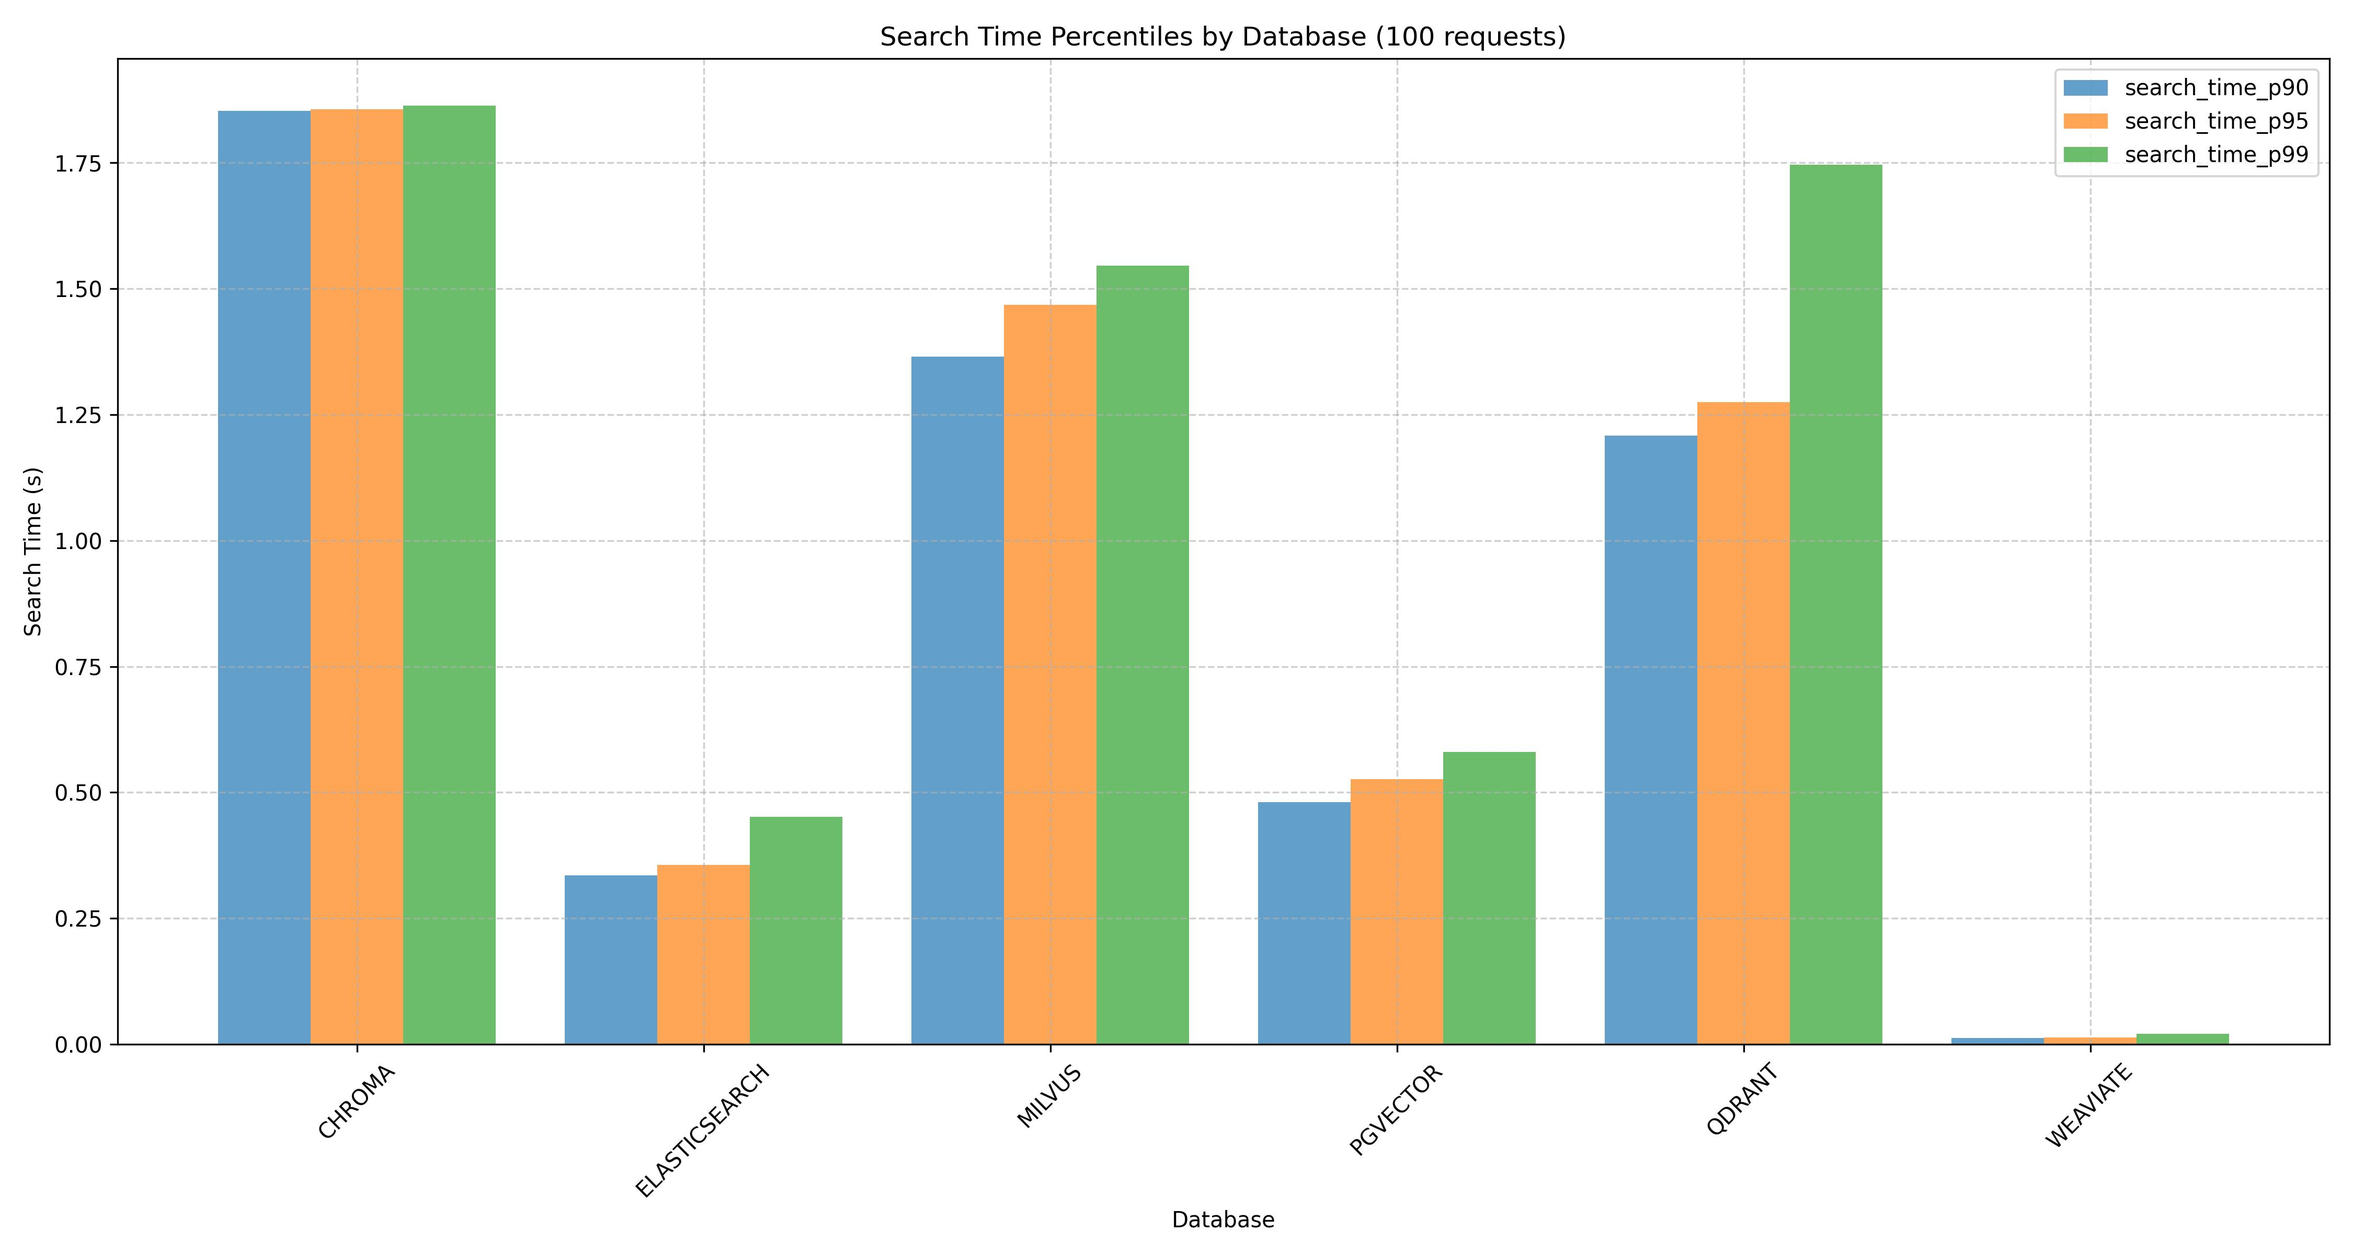
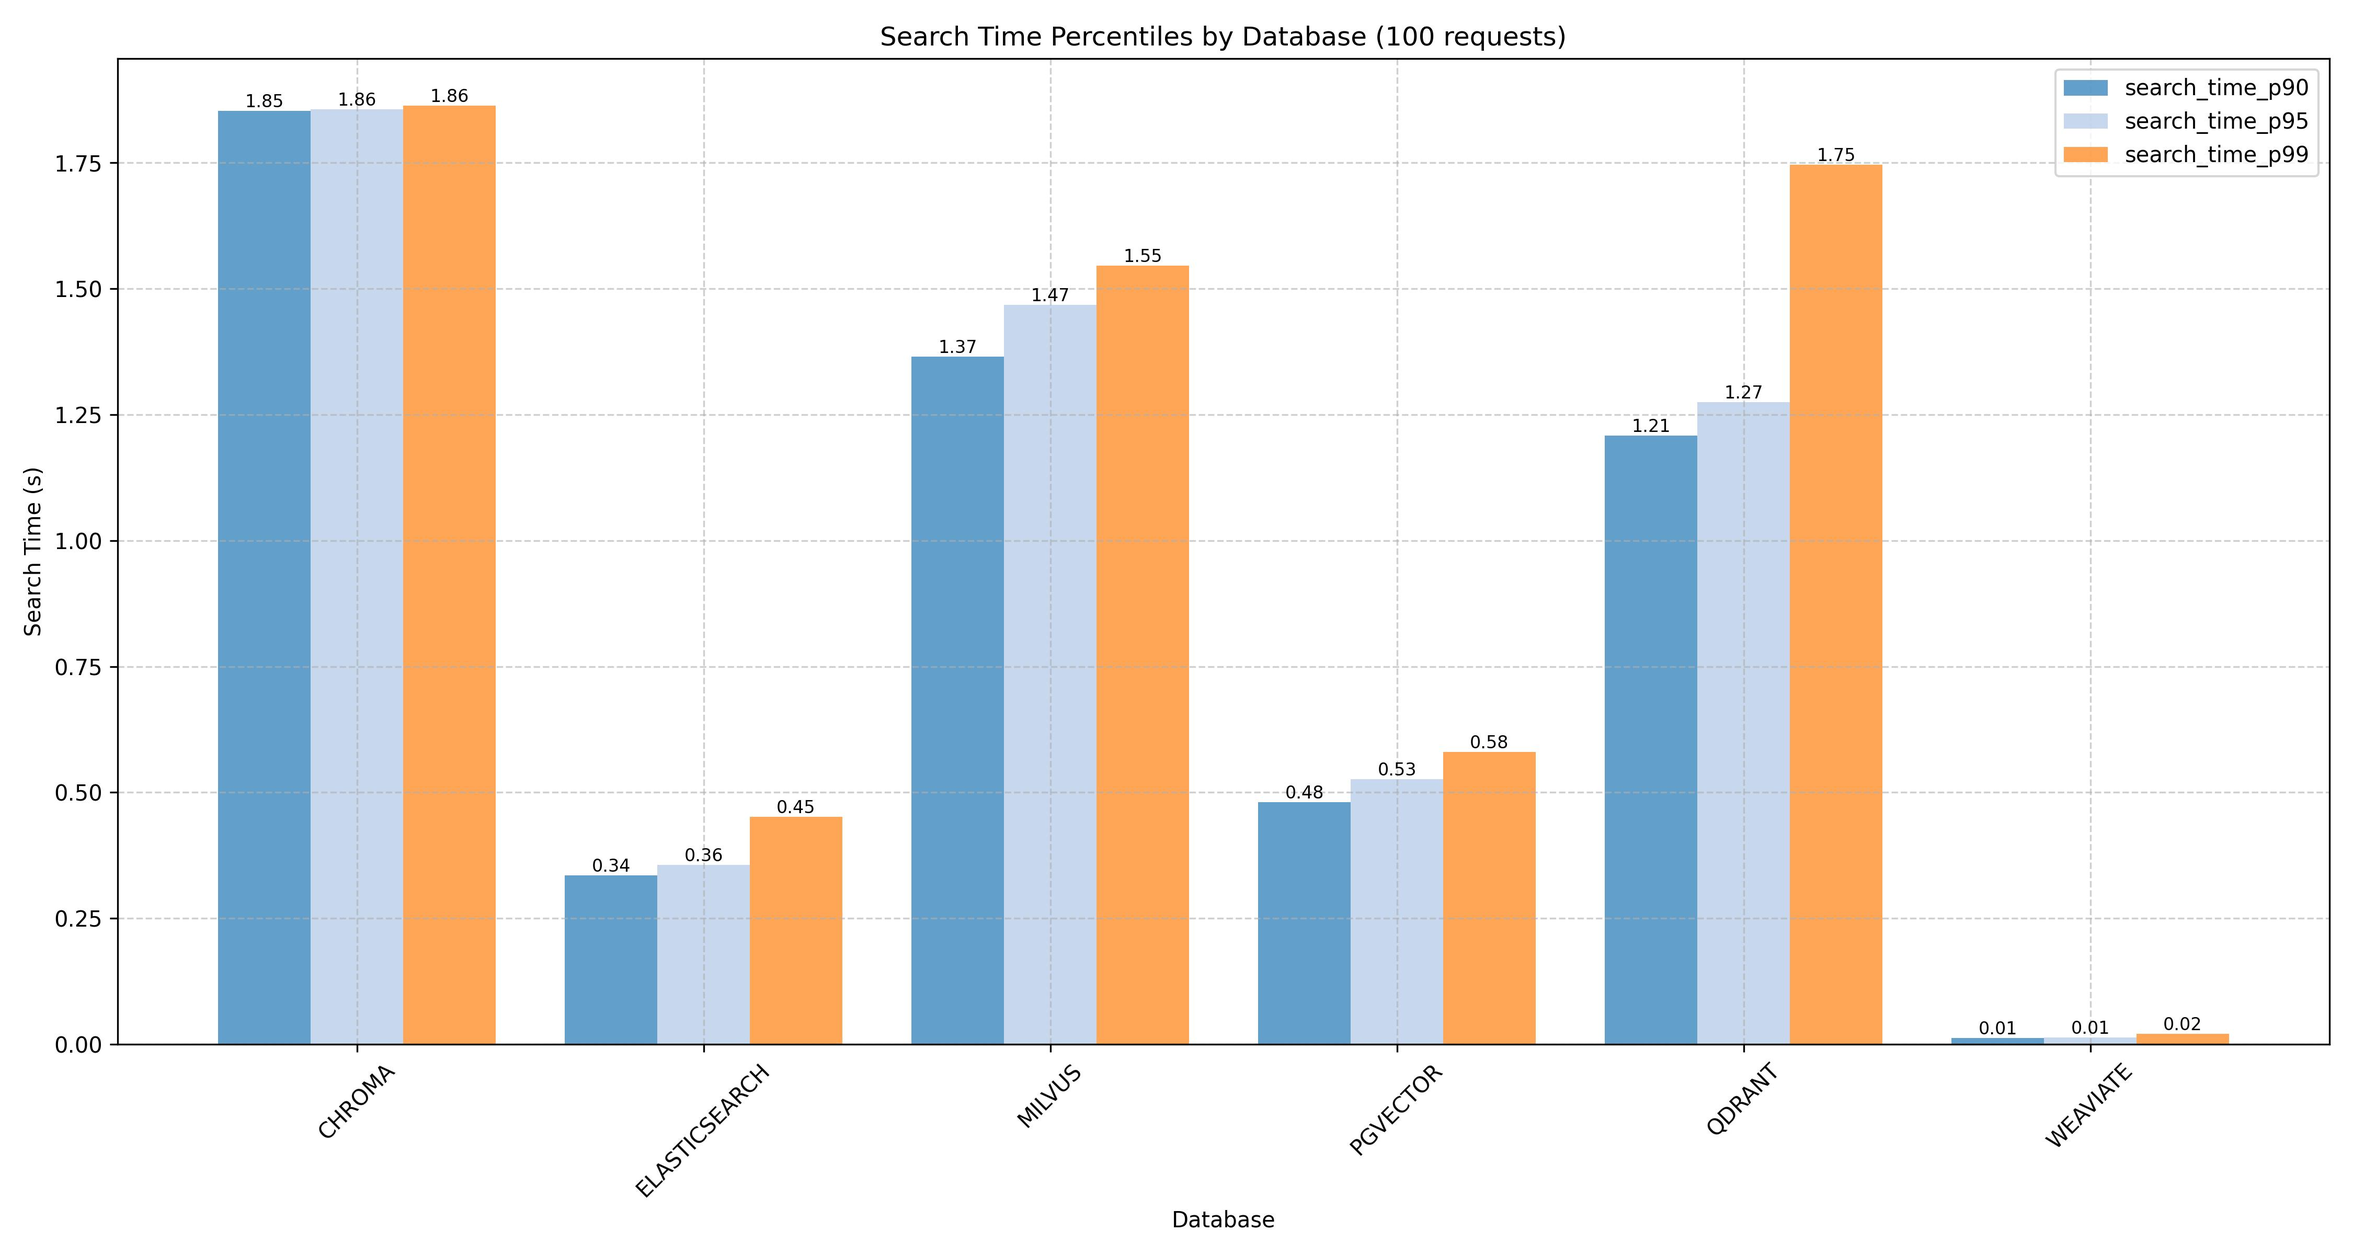
feat: modify plots

diff --git a/data_visualiser/main.py b/data_visualiser/main.py
@@ -7,10 +7,16 @@ import seaborn as sns
 RESULTS_FOLDER = "results"
 PLOTS_FOLDER = "plots"
 
+
 def retrieve_benchmarker_files(type: str):
-    file_paths = [os.path.join(RESULTS_FOLDER, f) for f in os.listdir(RESULTS_FOLDER) if type in f and f.endswith(".csv")]
+    file_paths = [
+        os.path.join(RESULTS_FOLDER, f)
+        for f in os.listdir(RESULTS_FOLDER)
+        if type in f and f.endswith(".csv")
+    ]
     file_paths.sort()
     return file_paths
+
 
 def plot_metrics_scatterplot(
     search_file_paths,
@@ -20,7 +26,8 @@ def plot_metrics_scatterplot(
     file_name=None,
 ):
     """
-    Create a single scatterplot with a specified metric for all databases, using different colors for each database.
+    Create a grid of scatterplots with a specified metric for all databases, using different colors for each database.
+    The grid will have 3 rows and 2 columns, and the Y-axis will be the same for all plots.
 
     Parameters:
     - search_file_paths: List of paths to CSV files.
@@ -30,7 +37,8 @@ def plot_metrics_scatterplot(
     - file_name: Custom file name for saving the plot (optional). If not provided, a default name will be generated.
     """
 
-    fig, ax = plt.subplots(figsize=(12, 8))
+    fig, axes = plt.subplots(3, 2, figsize=(15, 15), sharey=True)
+    axes = axes.flatten()
 
     colors = sns.color_palette("husl", n_colors=len(search_file_paths))
 
@@ -39,11 +47,11 @@ def plot_metrics_scatterplot(
         df = pd.read_csv(file_path)
 
         df["iteration"] = pd.to_numeric(df["iteration"], errors="coerce")
-
         df_valid = df.dropna(subset=["iteration"])
 
         db_name = os.path.basename(file_path).split("_database_")[-1].split("_")[0]
 
+        ax = axes[i]
         sns.scatterplot(
             x=df_valid["iteration"],
             y=df_valid[metric],
@@ -53,23 +61,38 @@ def plot_metrics_scatterplot(
             ax=ax,
         )
 
-        ax.plot(df_valid["iteration"], df_valid[metric], color=colors[i], linewidth=2, alpha=0.8)
+        ax.plot(
+            df_valid["iteration"],
+            df_valid[metric],
+            color=colors[i],
+            linewidth=4,
+            alpha=0.8,
+        )
 
-    ax.set_xlabel("Iteration")
-    ax.set_ylabel(ylabel if ylabel else metric)
-    ax.set_title(title if title else f"{metric.capitalize()} Across Iterations for All Databases")
-    ax.legend(title="Database", bbox_to_anchor=(1.05, 1), loc="upper left")
-    ax.grid(True)
+        ax.set_xlabel("Iteration")
+        ax.set_ylabel(ylabel if ylabel else metric)
+        ax.set_title(f"{db_name} - {metric.capitalize()}")
+        ax.legend(title="Database", bbox_to_anchor=(1.05, 1), loc="upper left")
+        ax.grid(True)
+
+        ax.yaxis.set_visible(True)
+
+    fig.suptitle(
+        title
+        if title
+        else f"{metric.capitalize()} Across Iterations for All Databases",
+        fontsize=16,
+    )
 
     plt.tight_layout()
 
     if file_name is None:
-        file_name = f"{metric}_combined_scatterplot.jpg"
+        file_name = f"{metric}_combined_scatterplot_grid.jpg"
     plot_path = os.path.join(PLOTS_FOLDER, file_name)
 
     fig.savefig(plot_path, dpi=300)
 
-    logger.info(f"Saved combined scatter plot: {plot_path}")
+    logger.info(f"Saved combined scatter plot grid: {plot_path}")
 
 
 def plot_metrics_barplot(
@@ -104,7 +127,7 @@ def plot_metrics_barplot(
     for file_path in search_file_paths:
         logger.info(f"Processing {file_path}...")
         df = pd.read_csv(file_path)
-        
+
         df_first_file = pd.read_csv(search_file_paths[0])
 
         numeric_requests = pd.to_numeric(df_first_file["iteration"], errors="coerce")
@@ -115,7 +138,9 @@ def plot_metrics_barplot(
         db_names.append(db_name)
 
         for metric in metrics:
-            logger.info(f"full metric value {df.loc[df["iteration"] == metric, column_name].values[0]}")
+            logger.info(
+                f"full metric value {df.loc[df['iteration'] == metric, column_name].values[0]}"
+            )
             metric_value = df.loc[df["iteration"] == metric, column_name].values[0]
             metric_values[metric].append(metric_value)
 
@@ -123,10 +148,10 @@ def plot_metrics_barplot(
     width = 0.8 / len(metrics)
 
     if colors is None:
-        colors = plt.cm.tab10.colors[: len(metrics)]
+        colors = plt.cm.tab20.colors[: len(metrics)]
 
     for i, metric in enumerate(metrics):
-        ax.bar(
+        bars = ax.bar(
             [pos + i * width for pos in x],
             metric_values[metric],
             width,
@@ -134,6 +159,17 @@ def plot_metrics_barplot(
             color=colors[i],
             alpha=0.7,
         )
+
+        for bar in bars:
+            height = bar.get_height()
+            ax.text(
+                bar.get_x() + bar.get_width() / 2.0,
+                height,
+                f"{height:.2f}",
+                ha="center",
+                va="bottom",
+                fontsize=8,
+            )
 
     ax.set_xlabel("Database")
     ax.set_ylabel(ylabel)
@@ -164,164 +200,164 @@ if __name__ == "__main__":
 
     # Scatterplot for search times
     plot_metrics_scatterplot(
-        search_file_paths, 
-        metric="search_time", 
-        title="Search Time Across Requests", 
-        ylabel="Search Time (s)", 
-        file_name="search_time_combined_scatter_plot.jpg"
+        search_file_paths,
+        metric="search_time",
+        title="Search Time Across Requests",
+        ylabel="Search Time (s)",
+        file_name="search_time_combined_scatter_plot.jpg",
     )
 
     # Scatterplot for initialisation times
     plot_metrics_scatterplot(
-        store_delete_file_paths, 
-        metric="initialisation_time", 
-        title="Initialisation Time Across Requests", 
-        ylabel="Initialisation Time (s)", 
-        file_name="initialisation_time_combined_scatter_plot.jpg"
+        store_delete_file_paths,
+        metric="initialisation_time",
+        title="Initialisation Time Across Requests",
+        ylabel="Initialisation Time (s)",
+        file_name="initialisation_time_combined_scatter_plot.jpg",
     )
 
     # Scatterplot for insertion times
     plot_metrics_scatterplot(
-        store_delete_file_paths, 
-        metric="insertion_time", 
-        title="Insertion Time Across Requests", 
-        ylabel="Insertion Time (s)", 
-        file_name="insertion_time_combined_scatter_plot.jpg"
+        store_delete_file_paths,
+        metric="insertion_time",
+        title="Insertion Time Across Requests",
+        ylabel="Insertion Time (s)",
+        file_name="insertion_time_combined_scatter_plot.jpg",
     )
 
     # Scatterplot for deletion times
     plot_metrics_scatterplot(
-        store_delete_file_paths, 
-        metric="deletion_time", 
-        title="Deletion Time Across Requests", 
-        ylabel="Deletion Time (s)", 
-        file_name="deletion_time_combined_scatter_plot.jpg"
+        store_delete_file_paths,
+        metric="deletion_time",
+        title="Deletion Time Across Requests",
+        ylabel="Deletion Time (s)",
+        file_name="deletion_time_combined_scatter_plot.jpg",
     )
 
     # Scatterplot for memory usage when initialising database
     plot_metrics_scatterplot(
-        store_delete_file_paths, 
-        metric="memory_usage_initialisation", 
-        title="Memory Usage for Database Initialisation Across Requests", 
-        ylabel="Memory Usage (MB)", 
-        file_name="memory_usage_initialisation_combined_scatter_plot.jpg"
+        store_delete_file_paths,
+        metric="memory_usage_initialisation",
+        title="Memory Usage for Database Initialisation Across Requests",
+        ylabel="Memory Usage (MB)",
+        file_name="memory_usage_initialisation_combined_scatter_plot.jpg",
     )
 
     # Scatterplot for memory usage when inserting into database
     plot_metrics_scatterplot(
-        store_delete_file_paths, 
-        metric="memory_usage_insertion", 
-        title="Memory Usage for Database Insertion Across Requests", 
-        ylabel="Memory Usage (MB)", 
-        file_name="memory_usage_insertion_combined_scatter_plot.jpg"
+        store_delete_file_paths,
+        metric="memory_usage_insertion",
+        title="Memory Usage for Database Insertion Across Requests",
+        ylabel="Memory Usage (MB)",
+        file_name="memory_usage_insertion_combined_scatter_plot.jpg",
     )
 
     # Barplot for mean and std search times
     plot_metrics_barplot(
         search_file_paths,
-        metrics=['search_time_mean', 'search_time_std'],
+        metrics=["search_time_mean", "search_time_std"],
         column_name="search_time",
         title="Search Mean and Standard Deviation by Database",
         ylabel="Search Time (s)",
-        file_name="search_mean_std_barplot.jpg"
+        file_name="search_mean_std_barplot.jpg",
     )
 
     # Barplot for p90, p95, and p99 search times
     plot_metrics_barplot(
         search_file_paths,
-        metrics=['search_time_p90', 'search_time_p95', 'search_time_p99'],
+        metrics=["search_time_p90", "search_time_p95", "search_time_p99"],
         column_name="search_time",
         title="Search Time Percentiles by Database",
         ylabel="Search Time (s)",
-        file_name="search_percentiles_barplot.jpg"
+        file_name="search_percentiles_barplot.jpg",
     )
 
     # Barplot for RPS and successful requests when searching
     plot_metrics_barplot(
         search_file_paths,
-        metrics=['rps', 'successful_requests'],
+        metrics=["rps", "successful_requests"],
         column_name="search_time",
         title="RPS and Successful Requests by Database",
         ylabel="Value",
-        file_name="search_rps_successful_requests_barplot.jpg"
+        file_name="search_rps_successful_requests_barplot.jpg",
     )
 
     # Barplot for mean and std initialisation times
     plot_metrics_barplot(
         store_delete_file_paths,
-        metrics=['initialisation_mean', 'initialisation_std'],
+        metrics=["initialisation_mean", "initialisation_std"],
         column_name="initialisation_time",
         title="Insertion Mean and Standard Deviation by Database",
         ylabel="Initialisation Time (s)",
-        file_name="initialisation_mean_std_barplot.jpg"
+        file_name="initialisation_mean_std_barplot.jpg",
     )
-    
+
     # Barplot for mean and std insertion times
     plot_metrics_barplot(
         store_delete_file_paths,
-        metrics=['insertion_mean', 'insertion_std'],
+        metrics=["insertion_mean", "insertion_std"],
         column_name="initialisation_time",
         title="Insertion Mean and Standard Deviation by Database",
         ylabel="Insertion Time (s)",
-        file_name="insertion_mean_std_barplot.jpg"
+        file_name="insertion_mean_std_barplot.jpg",
     )
 
     # Barplot for mean and std deletion times
     plot_metrics_barplot(
         store_delete_file_paths,
-        metrics=['deletion_mean', 'deletion_std'],
+        metrics=["deletion_mean", "deletion_std"],
         column_name="initialisation_time",
         title="Deletion Mean and Standard Deviation by Database",
         ylabel="Deletion Time (s)",
-        file_name="deletion_mean_std_barplot.jpg"
+        file_name="deletion_mean_std_barplot.jpg",
     )
 
     # Barplot for p90, p95, and p99 initialisation times
     plot_metrics_barplot(
         store_delete_file_paths,
-        metrics=['initialisation_p90', 'initialisation_p95', 'initialisation_p99'],
+        metrics=["initialisation_p90", "initialisation_p95", "initialisation_p99"],
         column_name="initialisation_time",
         title="Initialisation Time Percentiles by Database",
         ylabel="Initialisation Time (s)",
-        file_name="initialisation_percentiles_barplot.jpg"
+        file_name="initialisation_percentiles_barplot.jpg",
     )
 
     # Barplot for p90, p95, and p99 insertion times
     plot_metrics_barplot(
         store_delete_file_paths,
-        metrics=['insertion_p90', 'insertion_p95', 'insertion_p99'],
+        metrics=["insertion_p90", "insertion_p95", "insertion_p99"],
         column_name="initialisation_time",
         title="Insertion Time Percentiles by Database",
         ylabel="Insertion Time (s)",
-        file_name="insertion_percentiles_barplot.jpg"
+        file_name="insertion_percentiles_barplot.jpg",
     )
 
     # Barplot for p90, p95, and p99 deletion times
     plot_metrics_barplot(
         store_delete_file_paths,
-        metrics=['deletion_p90', 'deletion_p95', 'deletion_p99'],
+        metrics=["deletion_p90", "deletion_p95", "deletion_p99"],
         column_name="initialisation_time",
         title="Deletion Time Percentiles by Database",
         ylabel="Deletion Time (s)",
-        file_name="deletion_percentiles_barplot.jpg"
+        file_name="deletion_percentiles_barplot.jpg",
     )
 
     # Barplot for mean and std memory occupation values when initialising databases
     plot_metrics_barplot(
         store_delete_file_paths,
-        metrics=['memory_usage_init_mean', 'memory_usage_init_std'],
+        metrics=["memory_usage_init_mean", "memory_usage_init_std"],
         column_name="initialisation_time",
         title="Memory Occupation (MB) Mean and Standard Deviation by Database Initialisation",
         ylabel="Memory Occupation (MB)",
-        file_name="memory_occupation_initialisation_mean_std_barplot.jpg"
+        file_name="memory_occupation_initialisation_mean_std_barplot.jpg",
     )
 
     # Barplot for mean and std memory occupation values when inserting into databases
     plot_metrics_barplot(
         store_delete_file_paths,
-        metrics=['memory_usage_insert_mean', 'memory_usage_insert_std'],
+        metrics=["memory_usage_insert_mean", "memory_usage_insert_std"],
         column_name="initialisation_time",
         title="Memory Occupation (MB) Mean and Standard Deviation by Database Insertion",
         ylabel="Memory Occupation (MB)",
-        file_name="memory_occupation_insertion_mean_std_barplot.jpg"
+        file_name="memory_occupation_insertion_mean_std_barplot.jpg",
     )

diff --git a/README.md b/README.md
@@ -4,10 +4,11 @@
 
 Position yourself in the root folder (vector-db-benchmarking).
 To run the cluster, run ```./scripts/cluster_up.sh```.
-Running the cluster consists of running three main components:
+Running the cluster consists of running four main components:
 - <b>vector databases</b> - depending on which vector database is being benchmarked, others can be commented out in the script;
 - <b>vectorizer</b> - this component should be commented out if no new embeddings are being created, but instead benchmarking is the only thing that is being done;
-- <b>benchmarker</b> - if there is only need for creating the new embeddings that will later be used by benchmarker, this component can be commented out.
+- <b>benchmarker</b> - if there is only need for creating the new embeddings that will later be used by benchmarker, this component can be commented out;
+- <b>data_visualiser</b> - when running this component, others can be commented out.
 
 To shut down the cluster, run ```./scripts/cluster_down.sh```.
 
@@ -30,3 +31,9 @@ There are a few things to consider when working with the benchmarker component:
 - <b>main.py</b> - two main operations are occurring in this file: insertion + deletion benchmarking and search benchmarking. Functions referring to those operations should not be modified. The only code that should be modified is under the ```if __name__ == '__main__':``` line of code, as well as the global variables present at the top of the ```main.py``` file.
 - <b>results directory</b> - this is the directory that will include both insertion + deletion, as well as the search benchmarking results. These results will be stored in the ```.csv``` files.
 - <b>main-examples directory</b> - this is the directory that should include examples of the code below the ```if __name__ == '__main__':``` line of code for each vector database. Be sure to add this when done with the implementation.
+
+## Working with the Data Visualiser Component
+Main point of this component is to generate plots that visualise the received results accordingly. Few things should be considered when working with this component:
+- <b>results directory</b> - results from the benchmarking component should be put here.
+- <b>main.py</b> - to generate plots, functions that are present in this file should be called (there are examples here already).
+- <b>plots directory</b> - all of the generated plots will be placed in this directory.
